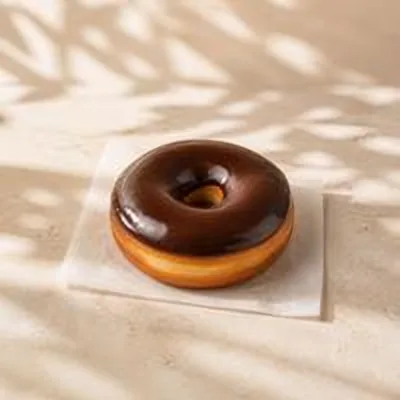
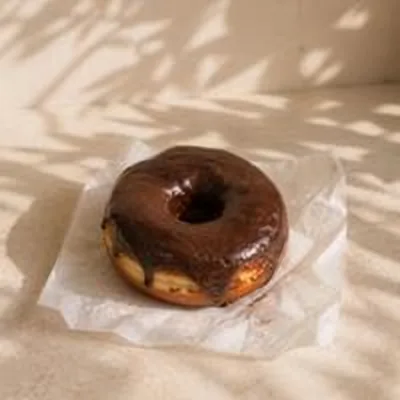
Menu em grelha vertical (2 colunas no telemóvel) + fotos mais reais de pães, muffins, donuts e saladas
- Depois dos Mais pedidos, cada categoria passa a grelha de cartões lado a lado (2/3/5 colunas),
  sem deslizar na horizontal nem 'Ver todos'; contador de produtos no título.
- 9 fotos refeitas a partir das fotos reais (pão recheado redondo pincelado, muffins de forminha
  amarela, donuts e saladas em caixa kraft) com aspecto caseiro e imperfeito.

Claude-Session: https://claude.ai/code/session_016vzi2fbdYjKiEgDiYTR7fF

diff --git a/index.html b/index.html
@@ -1274,6 +1274,45 @@ textarea.fld{min-height:74px;resize:vertical;}
  .cat2-t h3{font-size:27px;}
 }
 @media(prefers-reduced-motion:reduce){ .pc-foto img{transition:none;} .shelf{scroll-behavior:auto;} }
+/* ===== 21-10-2026 (2.ª versão): MENU EM GRELHA VERTICAL =====
+   Depois dos "Mais pedidos", cada categoria é uma grelha de cartões lado a lado (2 colunas no telemóvel,
+   3–5 no computador), sem deslizar para o lado nem "Ver todos". Cartão com foto grande, preço em etiqueta
+   sobre a foto e texto curto — lê-se de relance, como a montra de um café. */
+.cat2{margin:0 0 34px;}
+.cat2-h{grid-template-columns:auto 1fr;margin:0 0 14px;padding:0 2px;}
+.cat2-tog{display:none!important;}
+.cat2-ico{width:40px;height:40px;}
+.cat2-t h3{font-size:22px;}
+.cat2-t h3 .cat2-n{font:600 11.5px/1 'Jost',sans-serif;letter-spacing:.4px;color:var(--ink2);background:#EFE4D2;border-radius:999px;
+ padding:4px 8px;margin-left:8px;vertical-align:4px;}
+.shelf,.cat2.aberta .shelf{display:grid;grid-auto-flow:row;grid-template-columns:repeat(2,minmax(0,1fr));grid-auto-columns:auto;
+ gap:14px 12px;overflow:visible;margin:0;padding:0;scroll-snap-type:none;-webkit-mask-image:none;mask-image:none;}
+.shelf.mais-d,.shelf.mais-e,.shelf.mais-d.mais-e{-webkit-mask-image:none;mask-image:none;}
+.pc{background:var(--card);border:1px solid var(--line);border-radius:22px;padding:6px 6px 12px;
+ box-shadow:0 1px 0 rgba(52,37,29,.04),0 10px 24px -14px rgba(52,37,29,.28);display:flex;flex-direction:column;
+ transition:transform .2s ease,box-shadow .2s ease;}
+.pc:active{transform:scale(.985);}
+.pc-foto{border-radius:17px;}
+.pc-txt{padding:10px 6px 0;display:flex;flex-direction:column;flex:1;}
+.pc-n{font:600 14.5px/1.25 'Jost',sans-serif;}
+.pc-d{font-size:12px;-webkit-line-clamp:1;margin-top:3px;}
+.pc-pr{margin-top:auto;padding-top:8px;gap:2px 8px;}
+.pc-p b{font-size:17px;}
+.pc-g{opacity:.85;}
+.pc-add{right:7px;bottom:7px;width:38px;height:38px;}
+/* etiqueta "M · G" discreta: os tamanhos lêem-se como 225$ M  250$ G */
+.pc-pr small{font-size:10.5px;letter-spacing:.3px;}
+.pc.blk{opacity:.8;box-shadow:none;}
+.pc.breve{background:#FBF5EC;}
+.pc.breve .pc-txt{padding-bottom:2px;}
+@media(min-width:600px){ .shelf,.cat2.aberta .shelf{grid-template-columns:repeat(3,minmax(0,1fr));gap:18px 16px;} }
+@media(min-width:900px){
+ .shelf,.cat2.aberta .shelf{grid-template-columns:repeat(auto-fill,minmax(190px,1fr));gap:22px 18px;}
+ .pc:hover{transform:translateY(-3px);box-shadow:0 2px 0 rgba(52,37,29,.04),0 16px 30px -14px rgba(52,37,29,.35);}
+ .pc:hover .pc-foto img{transform:scale(1.04);}
+ .cat2-t h3{font-size:27px;}
+}
+@media(prefers-reduced-motion:reduce){ .pc,.pc:hover{transition:none;transform:none;} }
 </style>
 </head>
 <body>
@@ -2543,8 +2582,7 @@ function estante(id,tk,titulo,nota,cartoes,extra){
  const n=cartoes.length;
  return `<section class="cat2${extra?" "+extra:""}" id="${id}" data-n="${n}">
   <header class="cat2-h"><span class="cat2-ico" aria-hidden="true">${ICO[tk]||""}</span>
-   <div class="cat2-t"><h3>${esc(titulo)}</h3>${nota?`<p>${nota}</p>`:""}</div>
-   ${n>2?`<button type="button" class="cat2-tog" onclick="abrirEstante('${id}',this)" aria-expanded="false">${tm("ver")} <span>${n}</span></button>`:""}
+   <div class="cat2-t"><h3>${esc(titulo)}<span class="cat2-n">${n}</span></h3>${nota?`<p>${nota}</p>`:""}</div>
   </header>
   <div class="shelf" role="list">${cartoes.join("")}</div>
  </section>`;
